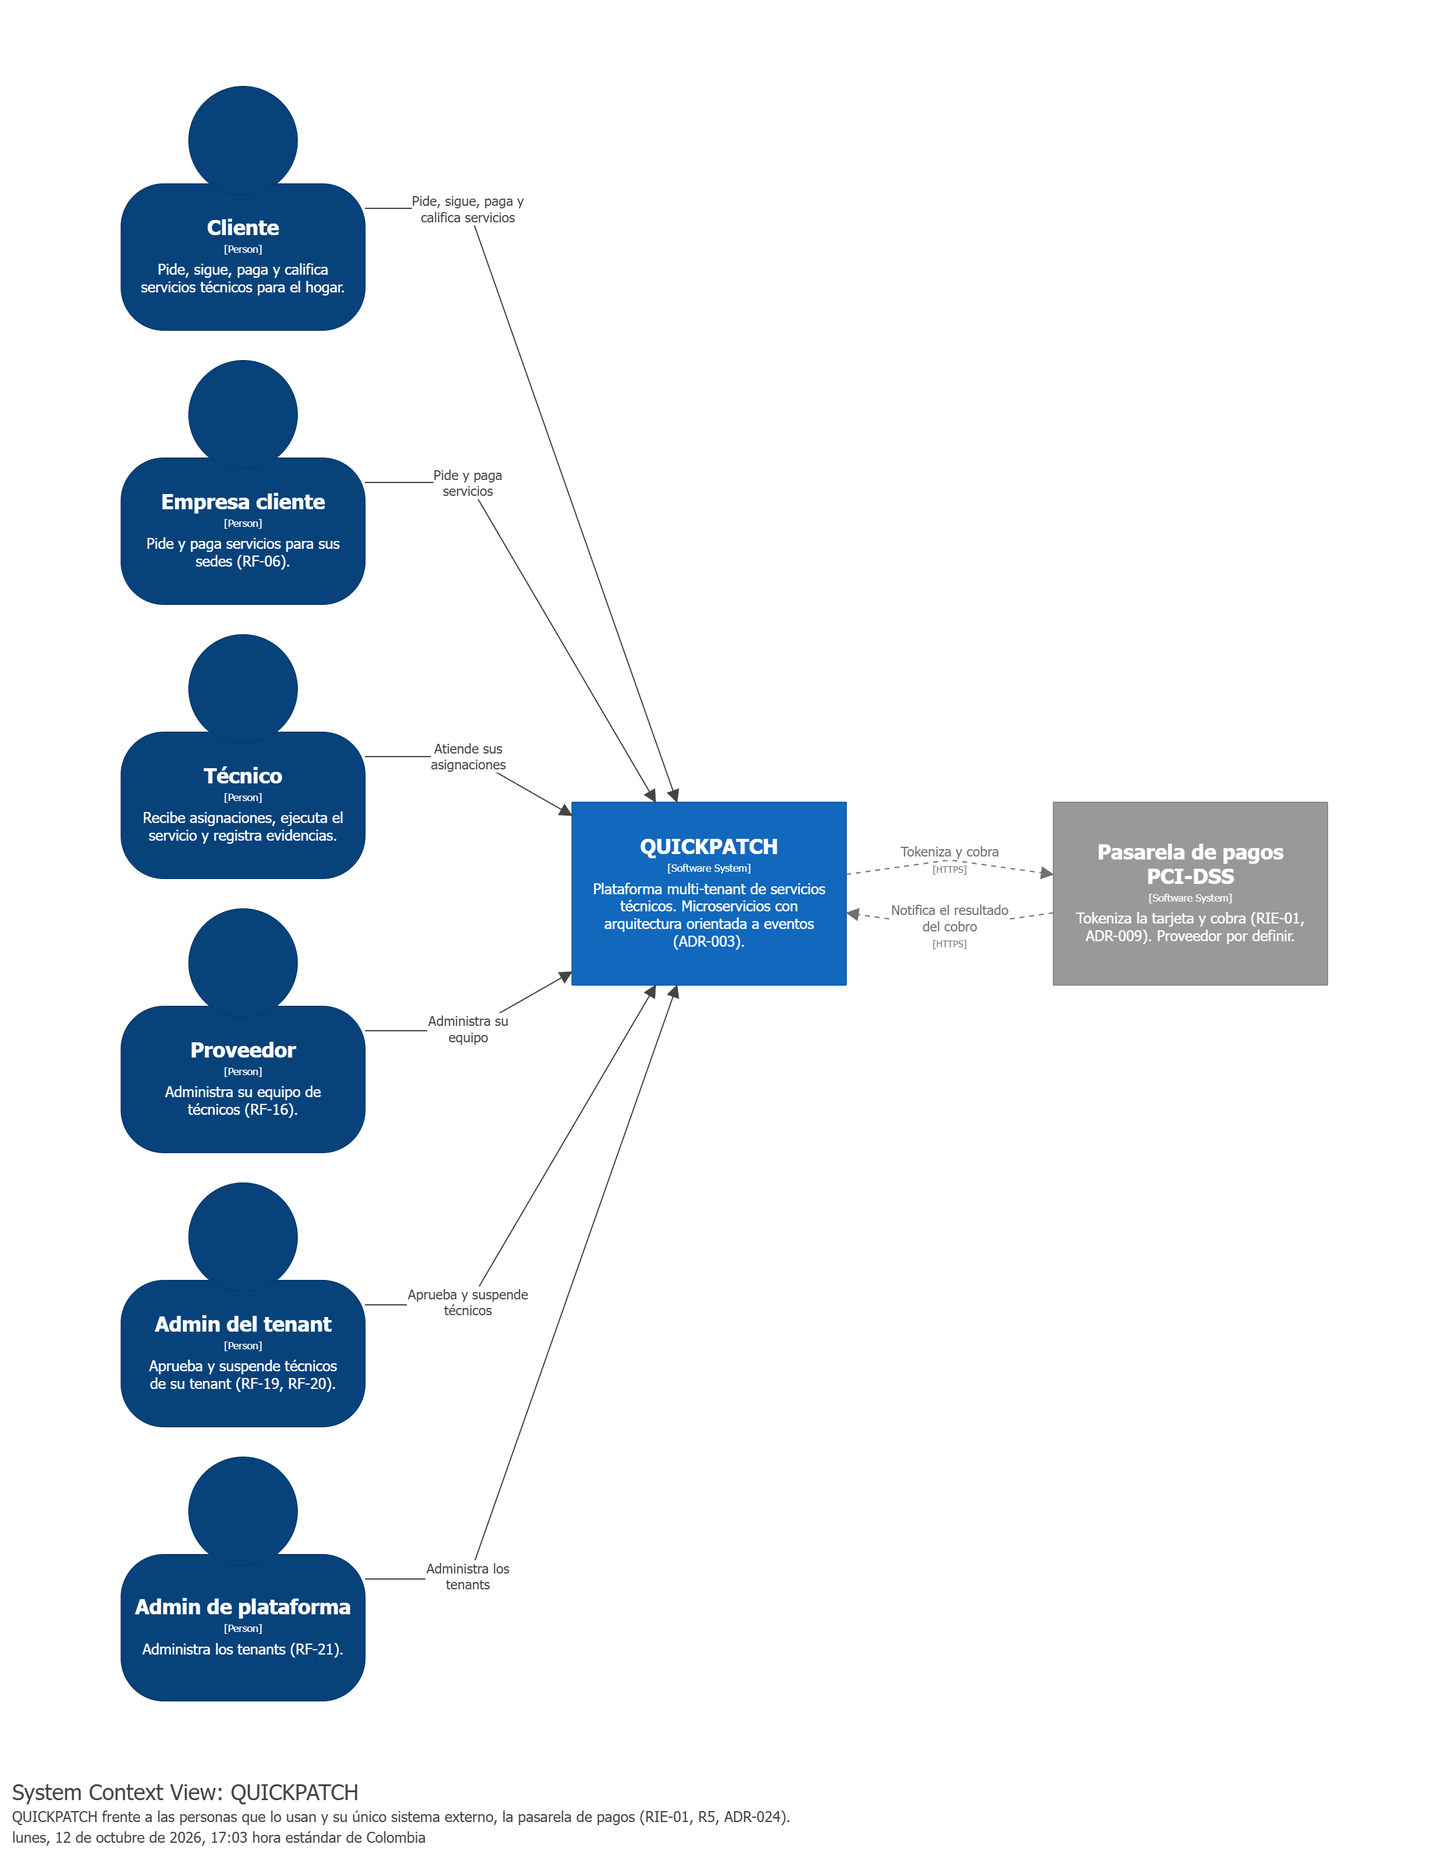
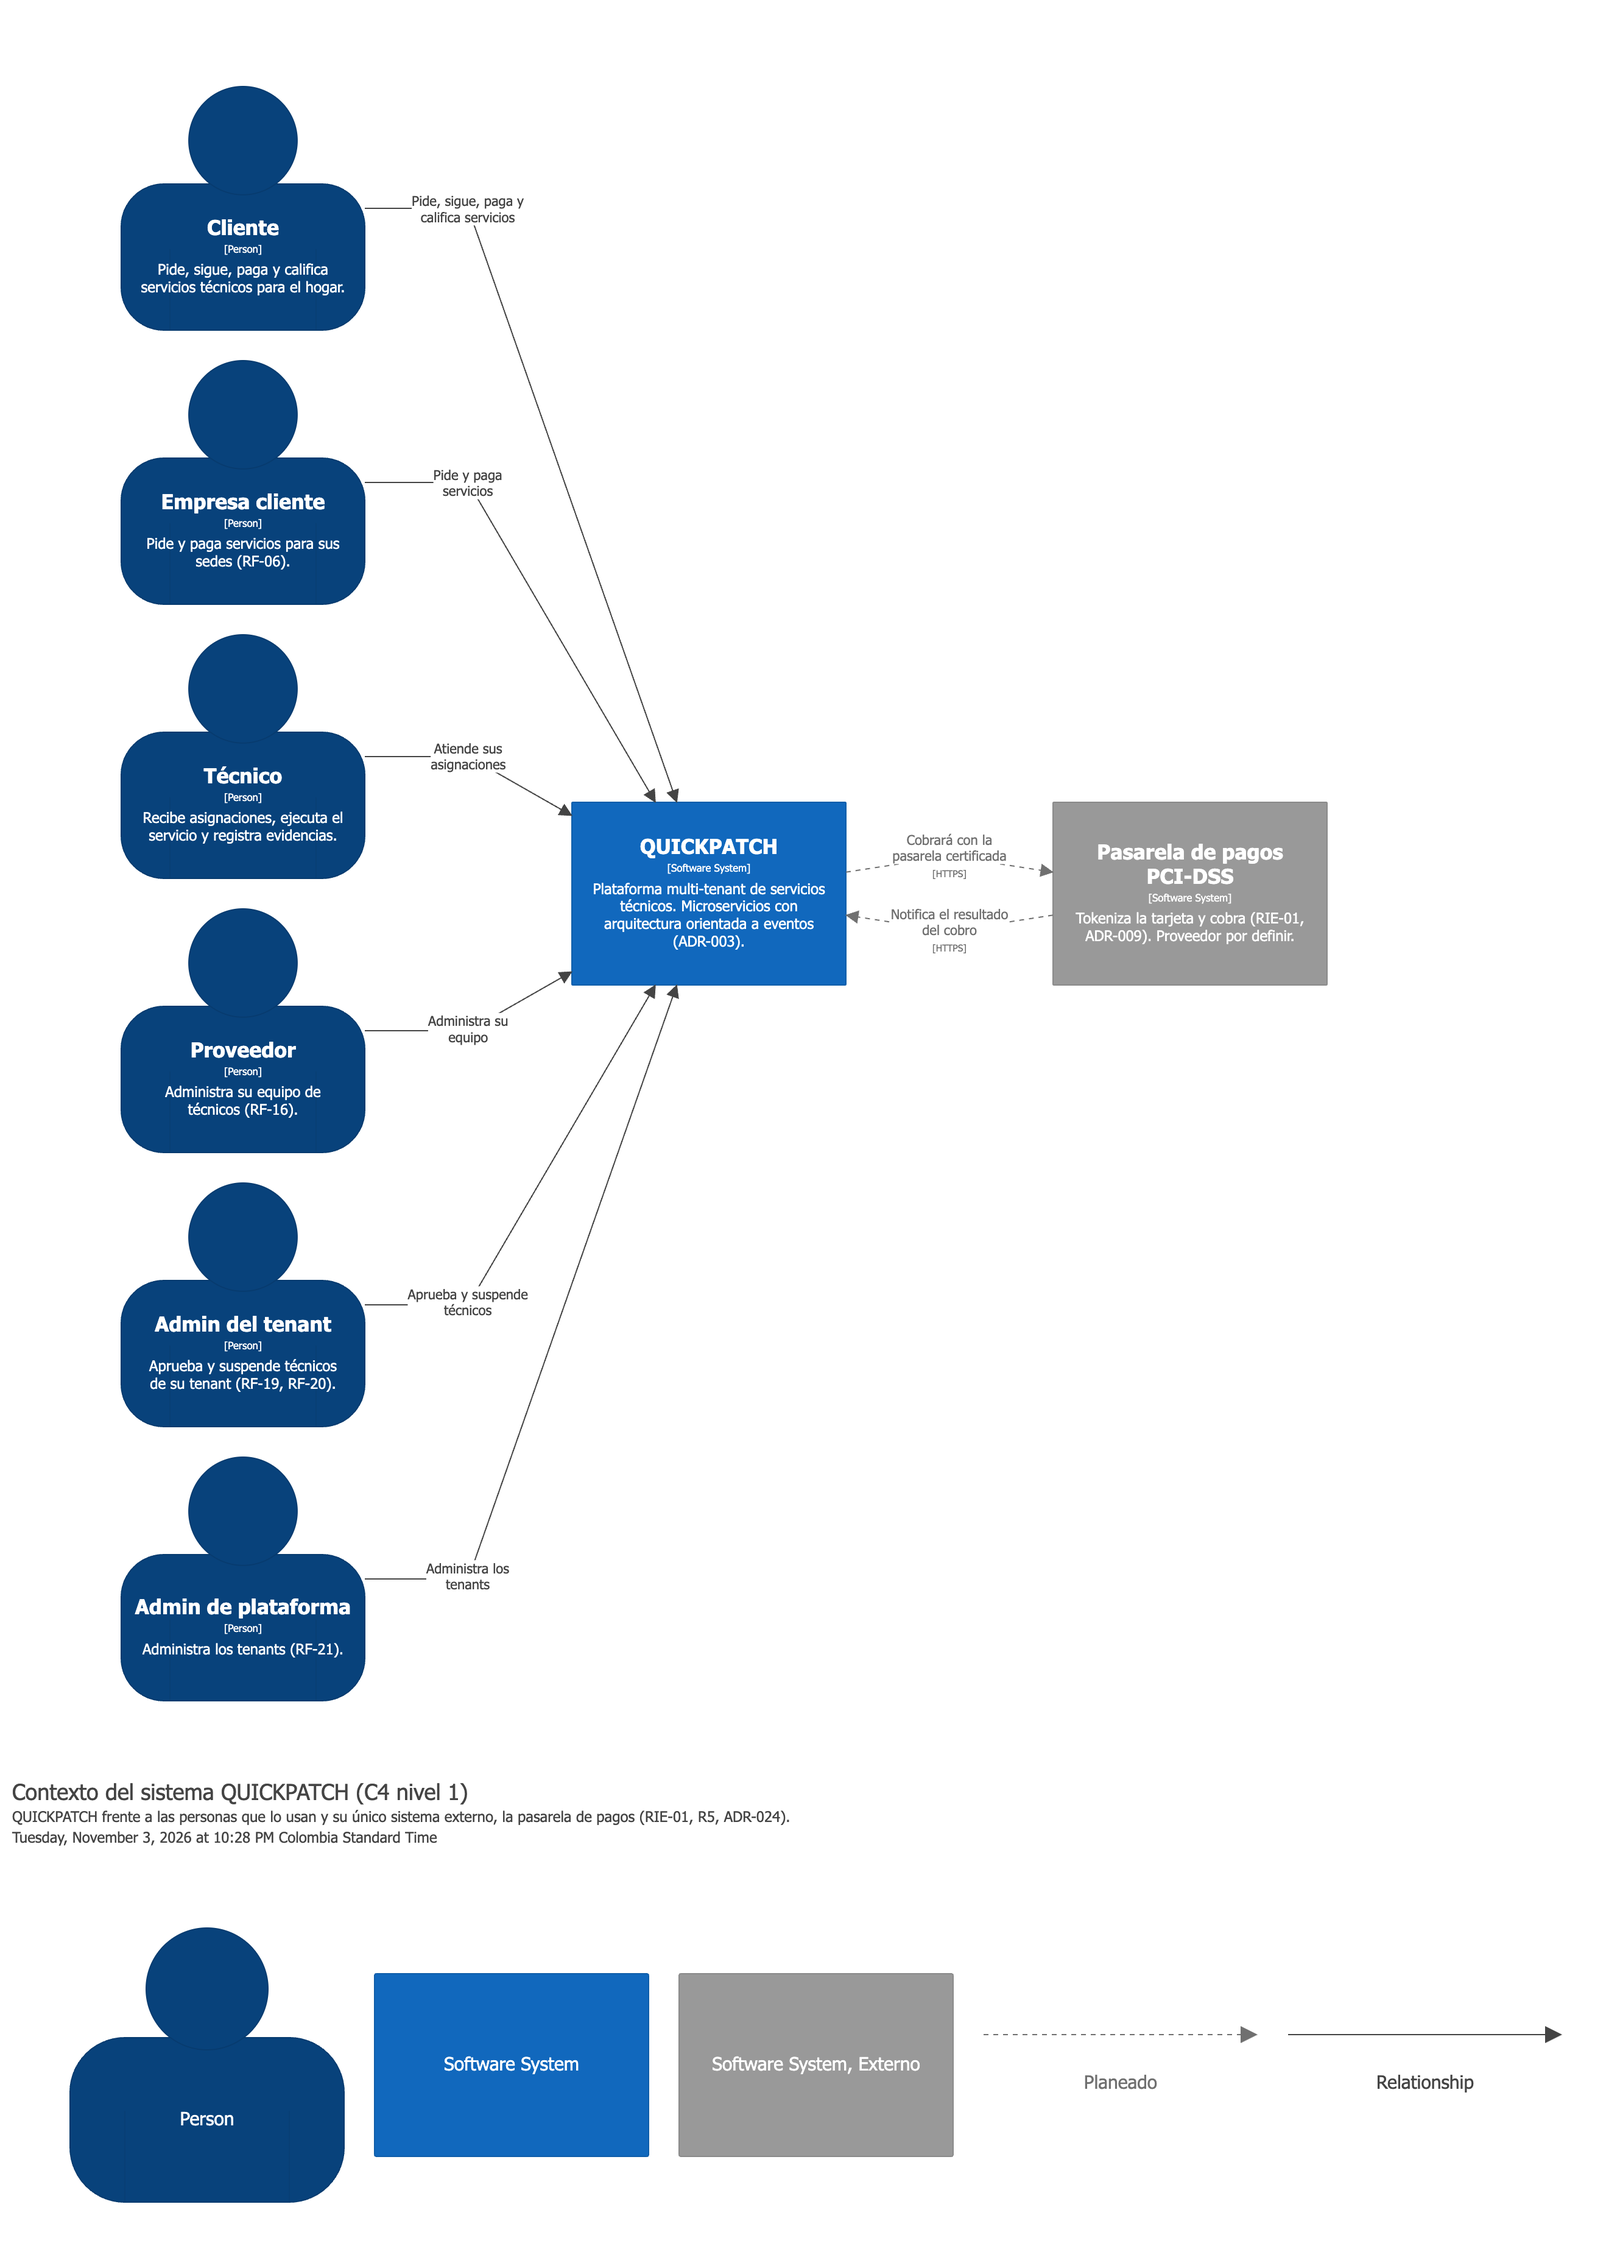
docs(SCRUM-578): contexto y contenedores con título, leyenda y agrupación en el DSL
- quickpatch.dsl: title en C4-02 y C4-03; C4-03 muestra los grupos del modelo (clientes,
  microservicios, mensajería y almacenamiento, PostgreSQL).
- C4-02 y C4-03 regenerados con la leyenda en la imagen (la de C4-03 ya sin la flecha
  planeada de Matching a Redis que quita SCRUM-583).
- SDD figuras 2 y 3 y sección 13.4; README del C4 con cómo se exporta la leyenda.
- Resumen .md: flechas de Kafka según los consumidores reales (Payments con
  technician.registered, Matching con cancelled y completed, Communication sin payment.*),
  sin el nodo de Actors y con la nota de que el SDD y el DSL mandan.

diff --git a/docs/architecture/SDD.md b/docs/architecture/SDD.md
@@ -117,6 +117,8 @@ El diagrama de contexto deja solo lo que interactúa con el sistema en operació
 
 **Figura 2. Contexto de QUICKPATCH (C4 · System Context). Vista `C4-02-Contexto`.**
 
+La figura lleva su título y, debajo, la leyenda de formas y líneas; la línea punteada es lo planeado (SCRUM-578).
+
 El único sistema externo es la pasarela de pagos certificada PCI-DSS (SAD, K2, R5); en el MVP la reemplaza un adaptador simulado dentro de Payments (ADR-009 modificado). La geocodificación (SRS, RIE-02) corre dentro de las 7 VMs con un Nominatim propio que solo tiene el mapa de Bogotá, y las notificaciones (RIE-03) se entregan dentro de la app, por el canal en tiempo real y el buzón de Communication; el correo y las notificaciones push quedan fuera del MVP (ADR-024). Por eso el geocodificador aparece como contenedor en la Figura 3 y no como sistema externo. La cercanía entre la solicitud y los técnicos la calcula PostGIS. El SAD (sección 4.1) presenta la misma frontera con las dos apps dentro del sistema; personas, canales y sistemas externos deben coincidir en los dos documentos.
 
 > **Contradicción resuelta:** la versión anterior de esta sección contaba la geocodificación y un proveedor de correo y push como sistemas externos, frente a R5 del SAD. ADR-024 la resolvió manteniendo R5: la geocodificación es propia y las notificaciones quedan dentro de la app.
@@ -132,6 +134,8 @@ La arquitectura se organiza por dominios y servicios. Los clientes acceden a tra
 ![Contenedores de QUICKPATCH](diagrams/c4/C4-03-Contenedores.png)
 
 **Figura 3. Contenedores de QUICKPATCH (C4 · Container). Vista `C4-03-Contenedores`.**
+
+Los contenedores se agrupan en clientes, microservicios, mensajería y almacenamiento, y PostgreSQL con una base por servicio (ADR-014). La figura lleva su título y, a la derecha, la leyenda de formas y líneas (SCRUM-578).
 
 Las notificaciones no salen del sistema: Communication las entrega por el canal en tiempo real (`/v1/realtime`, ADR-023) y las guarda en su buzón (ADR-024), así que el diagrama no tiene un proveedor de correo o push.
 
@@ -2236,6 +2240,7 @@ La V4 lleva el documento al Sprint 5 y responde a las observaciones del profesor
 | Revisión integral del Sprint 5: sistemas externos según ADR-024 (sección 4), Ranking en QA, matriz 8.6 y grupos 8.7 con los eventos y consumidores reales, perfil, `tenant.status-changed` y su réplica en Identity y ServiceRequest, y calificación e historial en la app | 4, 5, 6.2, 6.4, 6.7, 6.9, 8.6, 8.7, 9 y 12 (figuras 3, 9, 10, 13, 16, 27 y 31) | SCRUM-548 |
 | Componentes reales de la calificación: ServiceRequest, Ranking e Identity | 6.4, 6.7 y 6.9 (figuras 10, 13 y 16) | SCRUM-584 |
 | Pagos recibidos de Payments con sus clases reales (`ReceivedPaymentEndpoints`, `ReceivedPaymentsHandler`, `TechnicianRegisteredConsumer` y `TechnicianRegisteredHandler`) y los consumidores reales de Communication, sin `payment.*` | 6.10 (figura 17), figura 18 y figura 3 | SCRUM-584 |
+| Contexto y contenedores reorganizados en el DSL: título en cada vista, leyenda en la imagen y contenedores agrupados en clientes, microservicios, mensajería y almacenamiento, y PostgreSQL | 4 y 5.1 (figuras 2 y 3) | SCRUM-578 |
 | Observaciones 1 a 3 de la revisión funcional del PO: sección 12 con la revisión de la V4, contratos de `v0.21.0`, los 20 eventos de `quickpatch-kafka` `v0.10.0` y RF-17, RF-25 y el buzón en la sección 8.13.5 | 5.6.1, 5.6.2, 8.13.5, 12 y 13.5 | SCRUM-548 |
 | Auditoría previa a la revisión del PO: estado del documento, calificación implementada en la matriz de escenarios, secuencia de extremo a extremo con el técnico y la calificación por Kafka (ADR-027), cuenta corporativa implementada, Ranking en la convención de paquetes y referencias corregidas | 1, 6.2, 6.7, 8.13.3, 8.13.4, 10.2, 11.4 y 13 | SCRUM-548 |
 

diff --git a/docs/architecture/DIAGRAMS_SCRUM575_C4_CONTEXT_CONTAINERS.md b/docs/architecture/DIAGRAMS_SCRUM575_C4_CONTEXT_CONTAINERS.md
@@ -4,7 +4,7 @@
 **Fecha:** 2026-11-02
 **Alineado con:** `docs/architecture/diagrams/c4/quickpatch.dsl`, Documento de Infraestructura (secciones 2.1, 3.3, 3.4 y 4.3), ADR-016, ADR-022, ADR-023, ADR-024 y ADR-028.
 
-Este documento resume las vistas C4 de nivel 1 y 2 y el reparto de las VMs. La fuente de los diagramas formales es el DSL; las imágenes generadas están en `docs/architecture/diagrams/c4/`.
+**El SDD (secciones 4, 5 y 9; figuras 2, 3, 30 y 31) y `quickpatch.dsl` mandan.** Este documento es solo un resumen de las vistas C4 de nivel 1 y 2 y del reparto de las VMs; si algo difiere, vale el SDD.
 
 ---
 
@@ -47,7 +47,6 @@ graph TB
 
     subgraph Servicios["Microservicios"]
         IS["Identity<br/>.NET 10"]
-        AC["Actors<br/>.NET 10"]
         CT["Catalog<br/>.NET 10"]
         SR["ServiceRequest<br/>.NET 10"]
         MT["Matching<br/>Java 25 + Spring Boot"]
@@ -86,12 +85,12 @@ graph TB
     MT -->|"matching.*"| KF
     RK -->|"ranking.technician-reputation-changed"| KF
     PY -->|"payment.*"| KF
-    KF -->|"service-request.created, technician.*"| MT
-    KF -->|"matching.*, payment.*,<br/>catalog.category-changed,<br/>tenant.status-changed"| SR
+    KF -->|"service-request.created, .cancelled y .completed,<br/>technician.registered y .verification-changed"| MT
+    KF -->|"matching.technician-assigned, .no-technician-available<br/>y .search-resumed, payment.approved y .rejected,<br/>catalog.category-changed, tenant.status-changed"| SR
     KF -->|"service-request.rated"| RK
     KF -->|"ranking.technician-reputation-changed"| IS
-    KF -->|"service-request.completed"| PY
-    KF -->|"service-request.*, matching.*, payment.*"| CM
+    KF -->|"service-request.completed, technician.registered"| PY
+    KF -->|"service-request.created, .status-changed, .quoted,<br/>.quote-accepted y .quote-rejected, matching.offer-created,<br/>technician.registered y .verification-changed"| CM
 
     SR -->|"candado"| RD
     SR -->|"fotos del servicio"| GA
@@ -100,7 +99,7 @@ graph TB
 
 Notas:
 
-- El gateway es un **Nginx** por ambiente (ADR-028). Según ADR-025, el REST principal va a Identity, ServiceRequest y Payments, con excepciones explícitas: las acciones del técnico en Matching (disponibilidad, cobertura y ofertas: `/v1/matching`, `/v1/technicians/me/availability` y `/coverage`), la administración del catálogo en Catalog (`/v1/catalog/admin/categories`) y, en Communication, el buzón (`/v1/notifications`), el canal en tiempo real (`/v1/realtime`) y el chat (`/v1/service-requests/{id}/messages`). Ranking y Actors no reciben REST.
+- El gateway es un **Nginx** por ambiente (ADR-028). Según ADR-025, el REST principal va a Identity, ServiceRequest y Payments, con excepciones explícitas: las acciones del técnico en Matching (disponibilidad, cobertura y ofertas: `/v1/matching`, `/v1/technicians/me/availability` y `/coverage`), la administración del catálogo en Catalog (`/v1/catalog/admin/categories`) y, en Communication, el buzón (`/v1/notifications`), el canal en tiempo real (`/v1/realtime`) y el chat (`/v1/service-requests/{id}/messages`). Ranking no recibe REST.
 - El cobro con la pasarela lo hace Payments con un adaptador simulado dentro del servicio (ADR-009), así que no hay flecha hacia un sistema externo en esta vista.
 - **El buzón no es un servicio aparte:** vive dentro de Communication, junto con el canal en tiempo real y el chat (ADR-023, ADR-024, ADR-026).
 - **El outbox es la tabla `outbox_events` de la base de cada servicio**, escrita en la misma transacción que el cambio (ADR-007). Redis no guarda outbox ni sesiones: hoy solo lo usa ServiceRequest como candado de sus tareas programadas.

diff --git a/docs/architecture/diagrams/c4/README.md b/docs/architecture/diagrams/c4/README.md
@@ -70,6 +70,7 @@ En el repositorio están en `docs/architecture/diagrams/c4/<clave>.png`, sin el 
 
 - Cada vista fija su `autoLayout` (dirección y separación) para que el PNG quede apaisado y sin solapamientos; si un cambio del modelo desordena una vista, se ajusta ahí y no en la imagen.
 - Las vistas donde los grupos estorban la distribución los ocultan con la propiedad `structurizr.groups false`.
+- `C4-02-Contexto` y `C4-03-Contenedores` llevan `title` en el DSL y se exportan con la leyenda (key) pegada a la imagen: a la derecha si la vista es apaisada y debajo si es vertical (SCRUM-578). El botón de exportar de Structurizr guarda el diagrama y la leyenda por separado; hay que unirlos en una sola imagen.
 
 - Los elementos y relaciones con la etiqueta `Planeado` están diseñados pero no existen en `develop`; se dibujan punteados.
 - Un cambio de arquitectura se hace en el DSL o en el `.puml` y se vuelve a exportar; las imágenes no se editan a mano.
